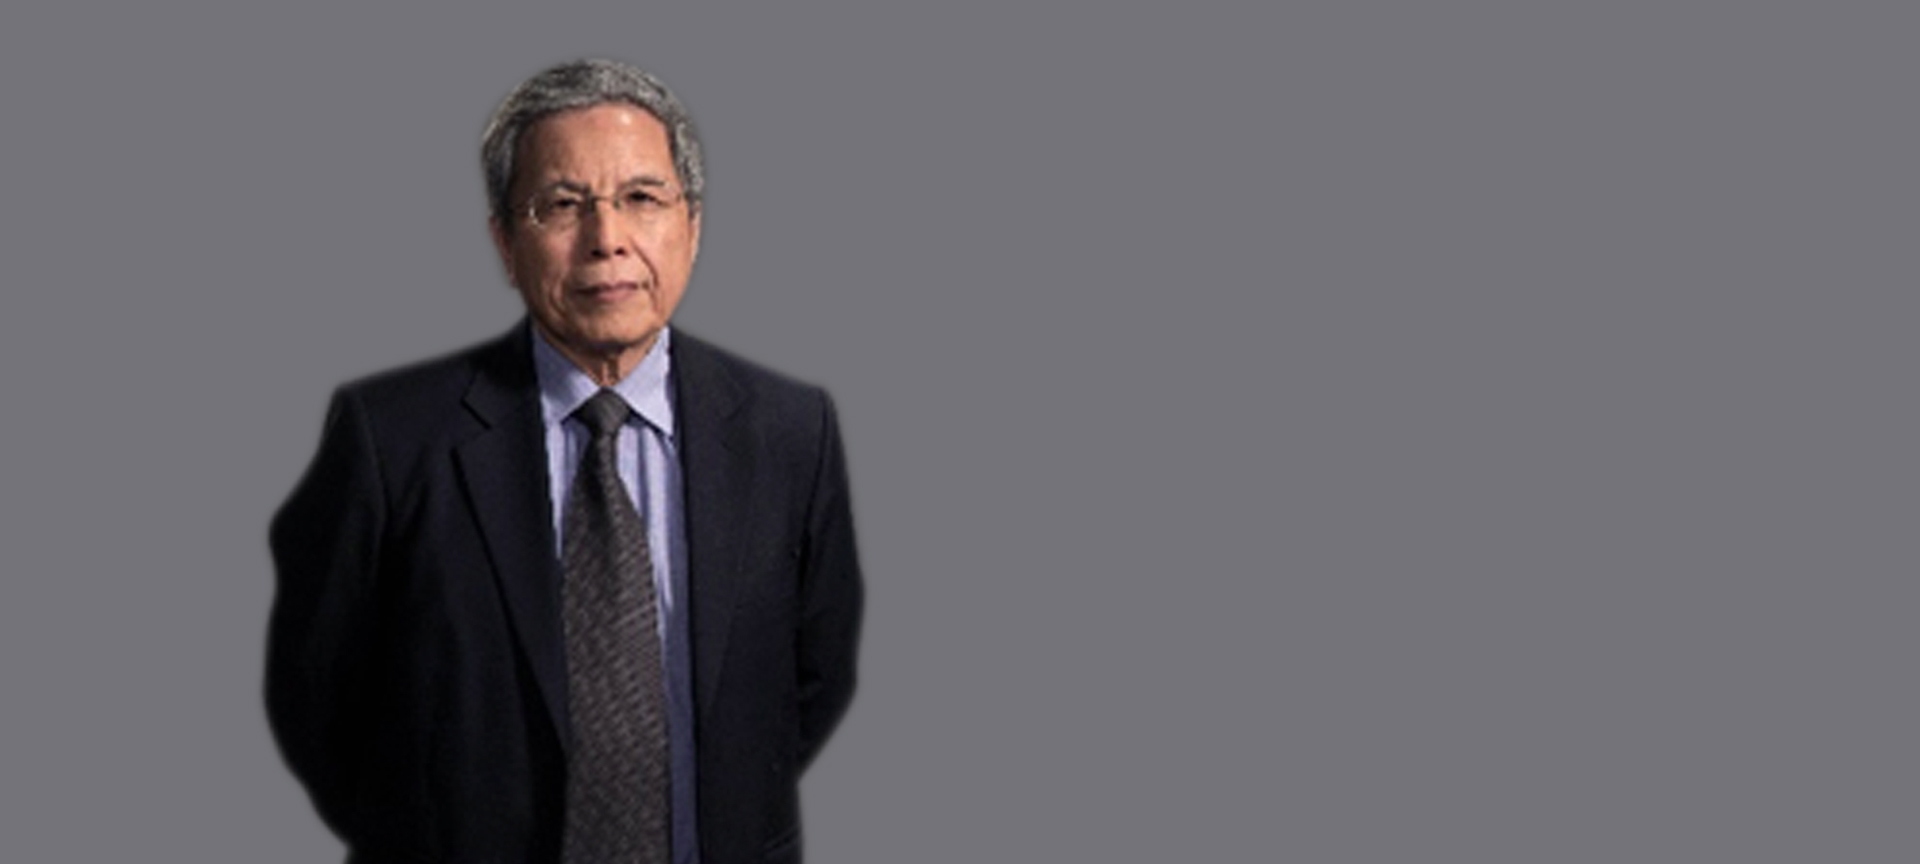
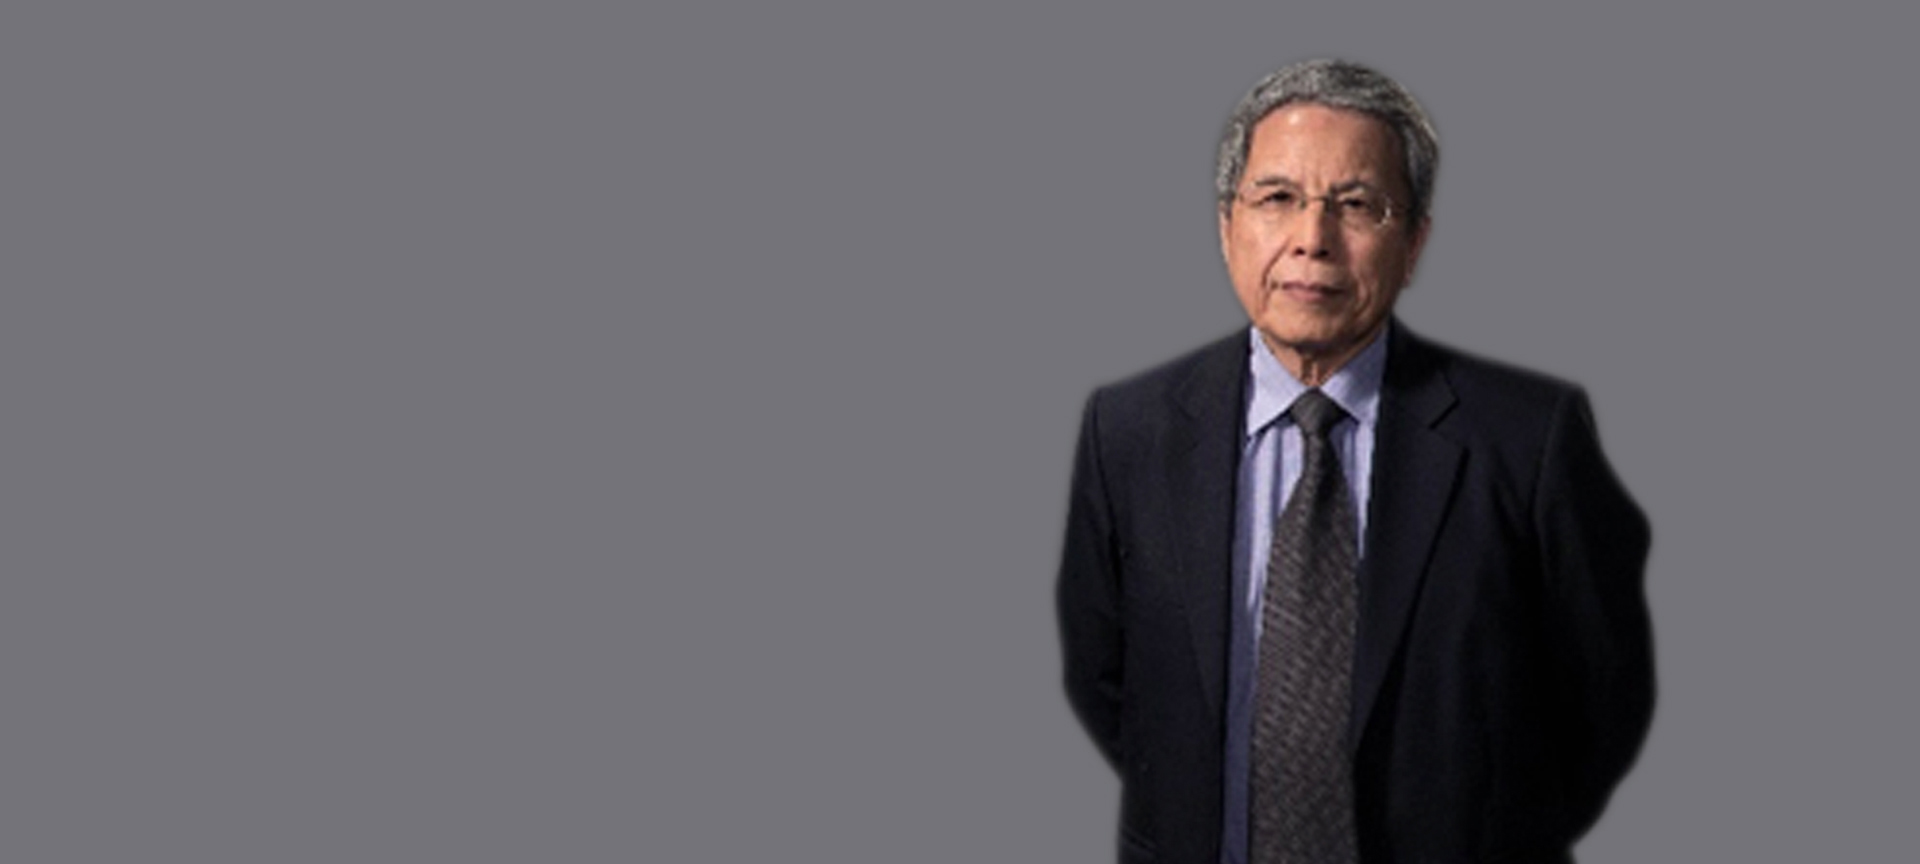
phd lin change

diff --git a/index.html b/index.html
@@ -153,13 +153,14 @@
 	<div id="home-bg3">
 		<div class="container">
 			<div class="row">
-				<div class="col-md-6"></div>
 				<div class="col-md-6">
-					<section class=" float-word wow fadeInRight" >
+					<section class=" float-word wow fadeInLeft" >
 						<h1>林博士</h1>
 						<h3>（70岁）</h3>
 						<p>从美国到中国，我从事牛肉行业已经40余年，很高兴看到越来越多的人了解牛肉的营养，同时，我和团队还想让大家吃的健康，用最简单的方法了解食品的品质。</p>
 					</section>
+				</div>
+				<div class="col-md-6">
 				</div>
 			</div>
 		</div>
